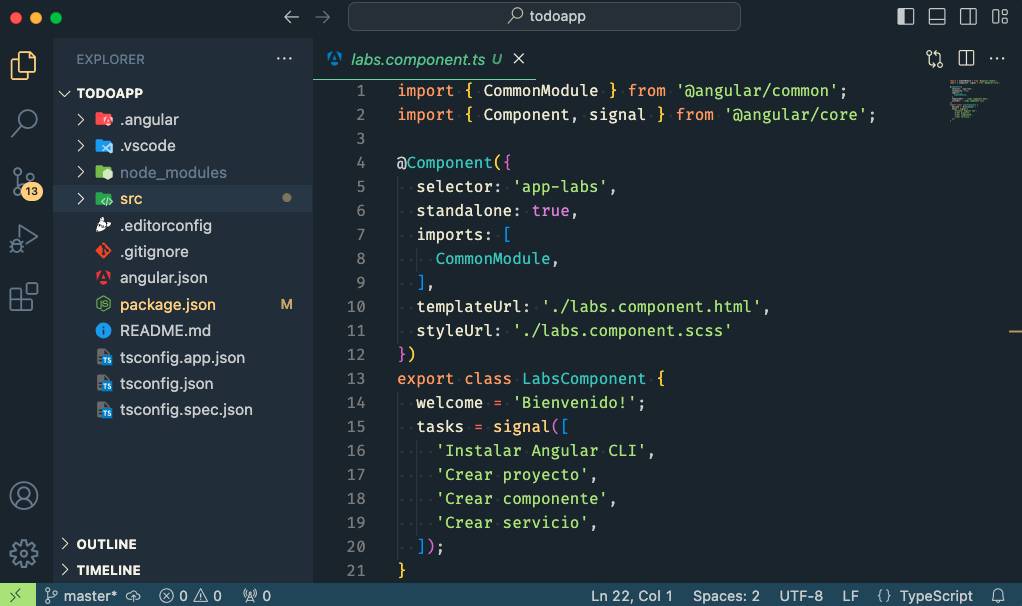
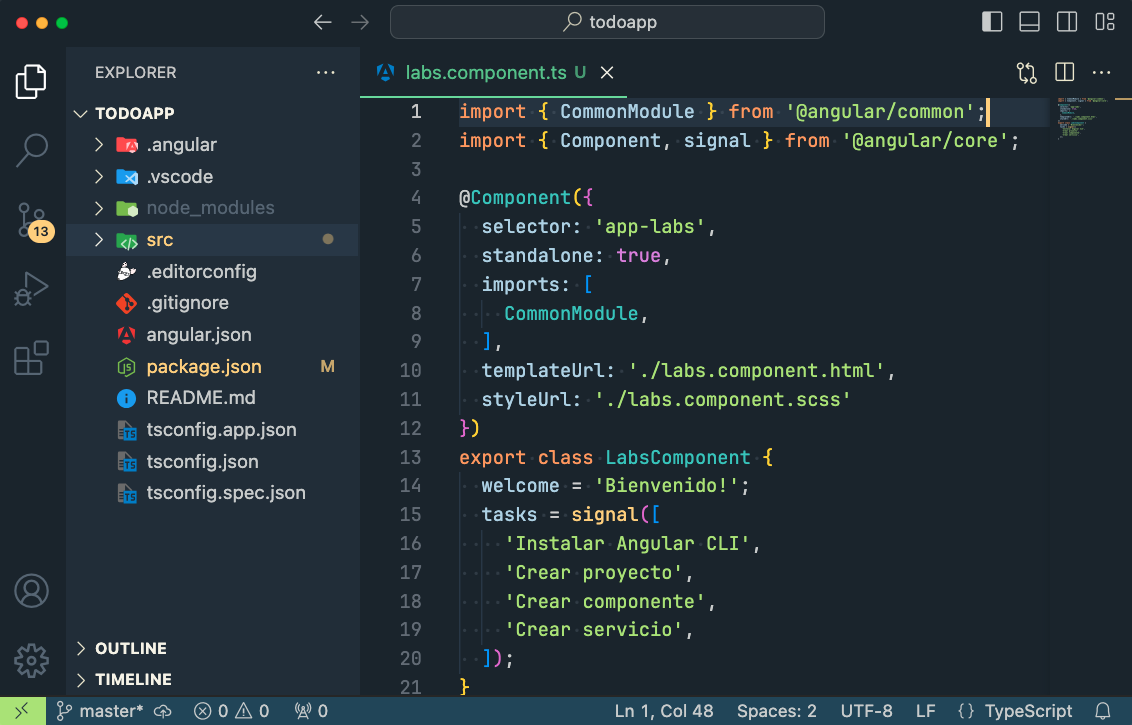
docs: improve readme

diff --git a/README.md b/README.md
@@ -9,11 +9,14 @@ A beautiful theme designed for old-school coders.
 
 ![demo-screen-2](images/demo-screen-2.png)
 
+![demo-screen-3](images/demo-screen-3.png)
+
 ## Best Custom Settings
 
 ### Install the font
 
-https://fonts.google.com/specimen/Fira+Code
+- https://www.jetbrains.com/es-es/lp/mono (recommended)
+- https://fonts.google.com/specimen/Fira+Code
 
 ### Install the icon theme
 
@@ -28,19 +31,18 @@ Visual Studio Code allows you to edit the `settings.json` config file. First ope
   "workbench.startupEditor": "none",
   "workbench.iconTheme": "material-icon-theme",
   "workbench.tree.enableStickyScroll": false,
-  "workbench.colorTheme": "Retrocoders",
   "files.eol": "\n",
   "[python]": {
     "editor.formatOnType": true
   },
   "terminal.integrated.fontSize": 13,
   "security.workspace.trust.untrustedFiles": "open",
-  "window.zoomLevel": 1,
+  "window.zoomLevel": 2,
   "breadcrumbs.enabled": false,
   "editor.cursorStyle": "line",
   "editor.cursorWidth": 3,
   "editor.stickyScroll.enabled": false,
-  "editor.fontFamily": "Fira Code, Menlo, Monaco, Courier New, monospace",
+  "editor.fontFamily": "JetBrains Mono, Mononoki, Fira Code, Menlo, Monaco, Courier New, monospace",
   "editor.fontLigatures": false,
   "editor.fontSize": 13,
   "editor.fontWeight": "normal",
@@ -49,6 +51,7 @@ Visual Studio Code allows you to edit the `settings.json` config file. First ope
   "editor.renderWhitespace": "all",
   "editor.tabSize": 2,
   "explorer.compactFolders": false,
+  "workbench.colorTheme": "Retrocoders"
 }
 ```
 
